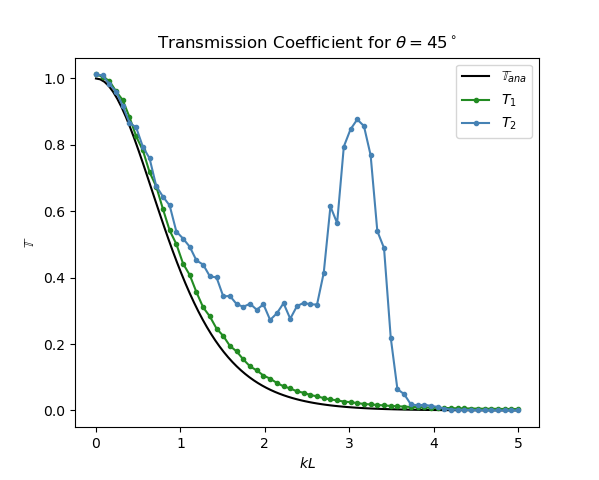
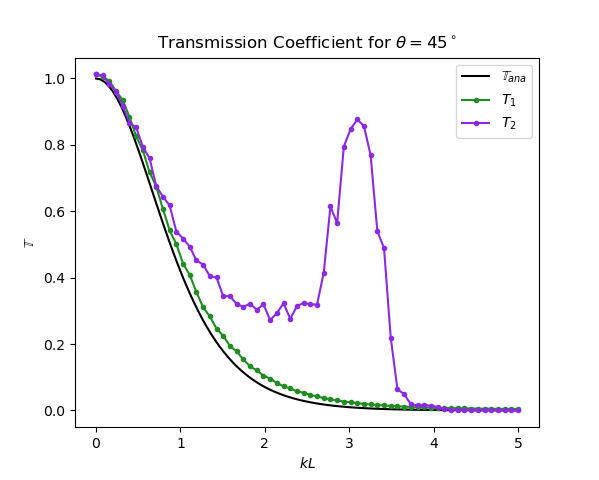
Made a nice plot

diff --git a/_experiments/pres_64s_1and2l/plot_1and2l_exp_data.py b/_experiments/pres_64s_1and2l/plot_1and2l_exp_data.py
@@ -85,7 +85,7 @@ def plot_T_vs_kL(all_exp_data, theta, omega, title_str='Transmission Coefficient
     # Plot line for analytical solution
     axes.plot(kL_ana, ana_data, color='black', label=r'$\mathbb{T}_{ana}$')
     # Get colors
-    plt_clrs = [hf.CSS4_COLORS['forestgreen'], hf.CSS4_COLORS['steelblue']]
+    plt_clrs = [hf.CSS4_COLORS['forestgreen'], hf.CSS4_COLORS['blueviolet']]
     # Plot points from measurements in simulations
     for i in range(1,all_exp_data.shape[1]):
         axes.plot(all_exp_data[:,0], all_exp_data[:,i], color=plt_clrs[i-1], marker='.', label=rf'$T_{i}$')
